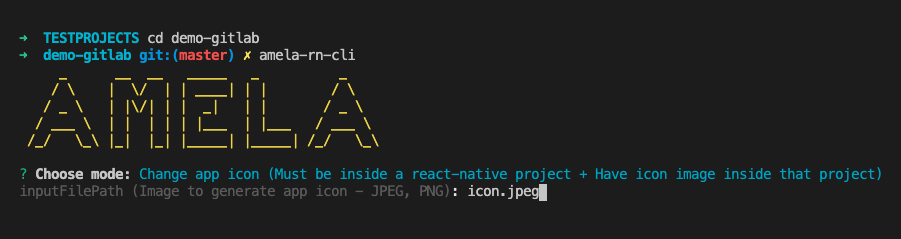
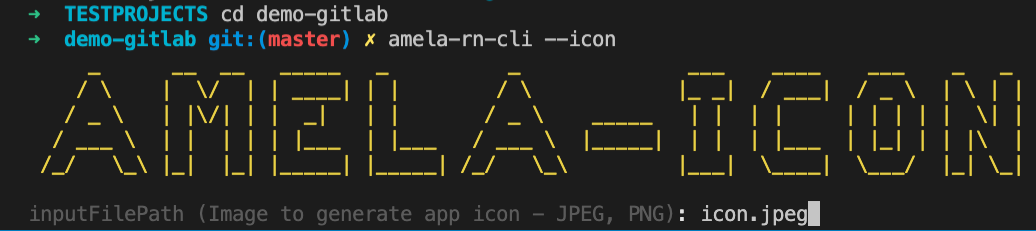
fix keystore + fix argvs + fix android/app/build.gradle

diff --git a/features/Initialization.js b/features/Initialization.js
@@ -5,8 +5,7 @@ const yargs = require("yargs/yargs");
 const { hideBin } = require("yargs/helpers");
 const argv = yargs(hideBin(process.argv)).argv;
 const { version } = require("../package.json");
-const CustomPromise = require("../promises");
-const Texts = require("../texts");
+const { ArgvType } = require("../enums");
 
 const handlePreProcessParams = async () => {
     // Check for update
@@ -14,47 +13,42 @@ const handlePreProcessParams = async () => {
     const { notifyType, boxenObj } = checkUpdateResult;
     if (notifyType) {
         console.log(boxenObj);
-        if (notifyType !== "patch") return false;
-    }
-
-    // Check if flag of command line is suitable
-    if (Object.keys(argv).length > 2) {
-        if (Object.keys(argv).length === 3 && argv.v) {
-            console.log(version);
-            return;
-        }
-        console.log(
-            chalk.red(
-                "Your syntax is not correct! Please try again! \nCorrect flags are:"
-            )
-        );
-        console.log("--version");
         return false;
     }
     return true;
 };
 
-const handleDecorateFirstInit = async () => {
+const handleCheckFlags = async () => {
+    // Check if flag of command line is suitable
+    if (Object.keys(argv).length === 3 && (argv.v || argv.version)) {
+        console.log(version);
+        return ArgvType.STOP;
+    }
+    if (Object.keys(argv).length === 3 && argv.init) {
+        return ArgvType.INIT;
+    }
+    if (Object.keys(argv).length === 3 && argv.icon) {
+        return ArgvType.ICON;
+    }
+    console.log(`\nUsage: amela-rn-cli <flag>
+    
+        amela-rn-cli --init         install new project
+        amela-rn-cli --icon         change icon of your project (must be inside your project)
+        amela-rn-cli --version      check version of your project`);
+        return ArgvType.STOP;
+}
+
+const handleDecorateFirstInit = async (type) => {
     // clear();
     console.log(
-        chalk.yellow(figlet.textSync("AMELA", { horizontalLayout: "full" }))
+        chalk.yellow(figlet.textSync(`AMELA${type ? `-${type.toUpperCase()}` : ''}`, { horizontalLayout: "full" }))
     );
-};
-
-const chooseMode = async () => {
-    const chooseModeQuestion = "Choose mode";
-    const chooseModeAnswerObj = await CustomPromise.getRadioButtonAnswerPromise(
-        chooseModeQuestion,
-        [Texts.createNewApp, Texts.changeAppIcon]
-    );
-    const chooseModeAnswer = chooseModeAnswerObj[chooseModeQuestion];
-    return chooseModeAnswer;
 };
 
 const Initialization = {
     handlePreProcessParams,
     handleDecorateFirstInit,
-    chooseMode,
+    handleCheckFlags,
 };
 
 module.exports = Initialization;

diff --git a/promises.js b/promises.js
@@ -179,7 +179,7 @@ const createKeyStorePromise = async (
             Constants.KeyStorePassword,
             {
                 debug: debugMode,
-                storetype: "JCEKS",
+                storetype: "JKS",
             }
         );
         store.genkeypair(
@@ -196,6 +196,37 @@ const createKeyStorePromise = async (
                 if (err) {
                     reject(err);
                 } else {
+                    resolve(res);
+                }
+            }
+        );
+    });
+};
+
+const getKeyStoreInfoPromise = async (
+    keystore = 'tna-staging-key.keystore',
+    password = "amela@123",
+) => {
+    return new Promise((resolve, reject) => {
+        const store = Keytool(
+            keystore,
+            password,
+            {
+                debug: false,
+                storetype: "JKS",
+            }
+        );
+        store.list(
+            function (err, res) {
+                if (err) {
+                    console.log('Error listing keystore content', err);
+                    reject(err);
+                }else {
+                    console.log('Keystore type: ' + res.storetype + ' Provider: ' + res.provider + ' (' + res.certs.length + ' certificates)');
+                    for (var certidx = 0; certidx < res.certs.length; certidx++) {
+                        var resobj = res.certs[certidx];
+                        console.log('#' + certidx, resobj.certtype, '(' + resobj.issued + ')', resobj.alias, resobj.algorithm, resobj.fingerprint);
+                    }
                     resolve(res);
                 }
             }
@@ -254,6 +285,7 @@ const CustomPromise = {
     getRadioButtonAnswerPromise,
     parseXCodeProjectPromise,
     createKeyStorePromise,
+    getKeyStoreInfoPromise,
     generateIconsPromise,
 };
 

diff --git a/index.js b/index.js
@@ -6,6 +6,7 @@ const Configuration = require("./features/Configuration");
 const PostInstallation = require("./features/PostInstallation");
 const HandleIcon = require("./icon-utils/HandleIcon");
 const Texts = require("./texts");
+const { ArgvType } = require("./enums");
 
 const createNewProject = async () => {
     // Ask questions before installing
@@ -42,13 +43,15 @@ const main = async () => {
         // Check pre-conditions and params from command line
         const preProcessBoolean = await Initialization.handlePreProcessParams();
         if (!preProcessBoolean) return;
+        // Check flag suitable
+        const checkFlagResult = await Initialization.handleCheckFlags();
+        if (checkFlagResult === ArgvType.STOP) return;
         // Decorate first cmd line
-        await Initialization.handleDecorateFirstInit();
+        await Initialization.handleDecorateFirstInit(checkFlagResult);
         // Choose mode
-        const modeResult = await Initialization.chooseMode();
-        if (modeResult === Texts.createNewApp) {
+        if (checkFlagResult === ArgvType.INIT) {
             await createNewProject();
-        } else if (modeResult === Texts.changeAppIcon) {
+        } else if (checkFlagResult === ArgvType.ICON) {
             await HandleIcon.generateAndInstallIcons();
         }
     } catch (err) {

diff --git a/features/Configuration.js b/features/Configuration.js
@@ -220,6 +220,12 @@ const setUpAndroidConfigAllEnvs = async (appName, appDisplayName, appCode) => {
         `apply from: file(\"../../node_modules/@react-native-community/cli-platform-android/native_modules.gradle\"); applyNativeModulesAppBuildGradle(project)\n`,
         `apply from: file(\"../../node_modules/@react-native-community/cli-platform-android/native_modules.gradle\"); applyNativeModulesAppBuildGradle(project)\napply from: \"../../node_modules/react-native-code-push/android/codepush.gradle\"\n`
     );
+    await CustomPromise.replaceStringFilePromise(
+        appBuildGradlePath,
+        `signingConfig signingConfigs.debug\n            minifyEnabled enableProguardInReleaseBuilds`,
+        `minifyEnabled enableProguardInReleaseBuilds`
+    );
+    
 
     // Fixing settings.gradle
     const settingsGradlePath = `./${appName}/android/settings.gradle`;
@@ -266,6 +272,8 @@ const handleSetUpRNConfig = async (appName, appDisplayName, appCode) => {
 };
 
 const Configuration = {
+    setUpIosConfigWithEnv,
+    setUpAndroidConfigAllEnvs,
     handleSetUpRNConfig,
 }
 

diff --git a/helpers.js b/helpers.js
@@ -30,7 +30,7 @@ const checkUpdate = async () => {
 
         msg = {
             updateAvailable: `${updateType} update available ${chalk.dim(version)} → ${chalk.green(latestVersion)}`,
-            priority: (verDiff && verDiff !== 'patch') ? `Priority: ${chalk.red(`Mandatory`)}` : `Priority: ${chalk.dim(`Optional`)}`,
+            priority: `Priority: ${chalk.red(`Mandatory`)}`,
             runUpdate: `Run ${chalk.cyan(`npm i -g -f ${name}`)} to update.`,
         };
     }

diff --git a/features/Installation.js b/features/Installation.js
@@ -150,7 +150,7 @@ const handleAskFirstQuestions = async () => {
     const resultAppCode = await CustomPromise.promptGetListQuestionPromise(
         listQuestionsAppCode,
     );
-    const listQuestionsRemoteURL = ["Remote repository URL (Optional): "];
+    const listQuestionsRemoteURL = ["Remote repository URL (OPTIONAL, you can skip this): "];
     const resultRemoteURL = await CustomPromise.promptGetListQuestionPromise(
         listQuestionsRemoteURL,
     );

diff --git a/enums.js b/enums.js
@@ -1,0 +1,7 @@
+const ArgvType = {
+    STOP: 'STOP',
+    INIT: 'INIT',
+    ICON: 'ICON',
+};
+
+module.exports = { ArgvType };

diff --git a/README.md b/README.md
@@ -16,27 +16,19 @@ Amela's react-native CLI.
 ## 1. Create a new project
 * Get inside folder that you want to create project.
 
-* Run command line `$ amela-rn-cli`.
+* Run command line `$ amela-rn-cli --init`.
 
 ![](assetsReadme/newProject/16.23.52.png)
 
-* Choose mode 1 - **Create a new project**.
-
 * Type in ProjectName, should be lowercase, don't have special characters except hyphen "-".
-
-![](assetsReadme/newProject/16.24.36.png)
 
 * Type in ProjectDisplayName.
 
-![](assetsReadme/newProject/16.24.48.png)
-
 * Type in ProjectAppCode, should be lowercase, maximum 3 characters.
-
-![](assetsReadme/newProject/16.25.07.png)
 
 * Type in repository's remote URL (if you have one)
 
-![](assetsReadme/newProject/16.25.15.png)
+![](assetsReadme/newProject/16.25.08.png)
 
 * Waiting...
 
@@ -52,7 +44,7 @@ Amela's react-native CLI.
 
 * **Note: Project will have default AMELA icon**.
 ---
-## 2. Change app's icon
+## 2. Change app's icon (Must be inside a react-native project + Have icon image inside that project)
 * Get inside folder of project you want to change icon.
 
 ![](assetsReadme/appIcon/16.37.27.png)
@@ -61,11 +53,7 @@ Amela's react-native CLI.
 
 ![](assetsReadme/appIcon/16.40.23.png)
 
-* Run command line `$ amela-rn-cli`.
-
-* Choose mode 2 - **Change app icon (Must be inside a react-native project + Have icon image inside that project)**.
-
-![](assetsReadme/appIcon/16.39.56.png)
+* Run command line `$ amela-rn-cli --icon`.
 
 * Type in the name of the image file for icon. For example, I typed **icon.jpeg**.
 
